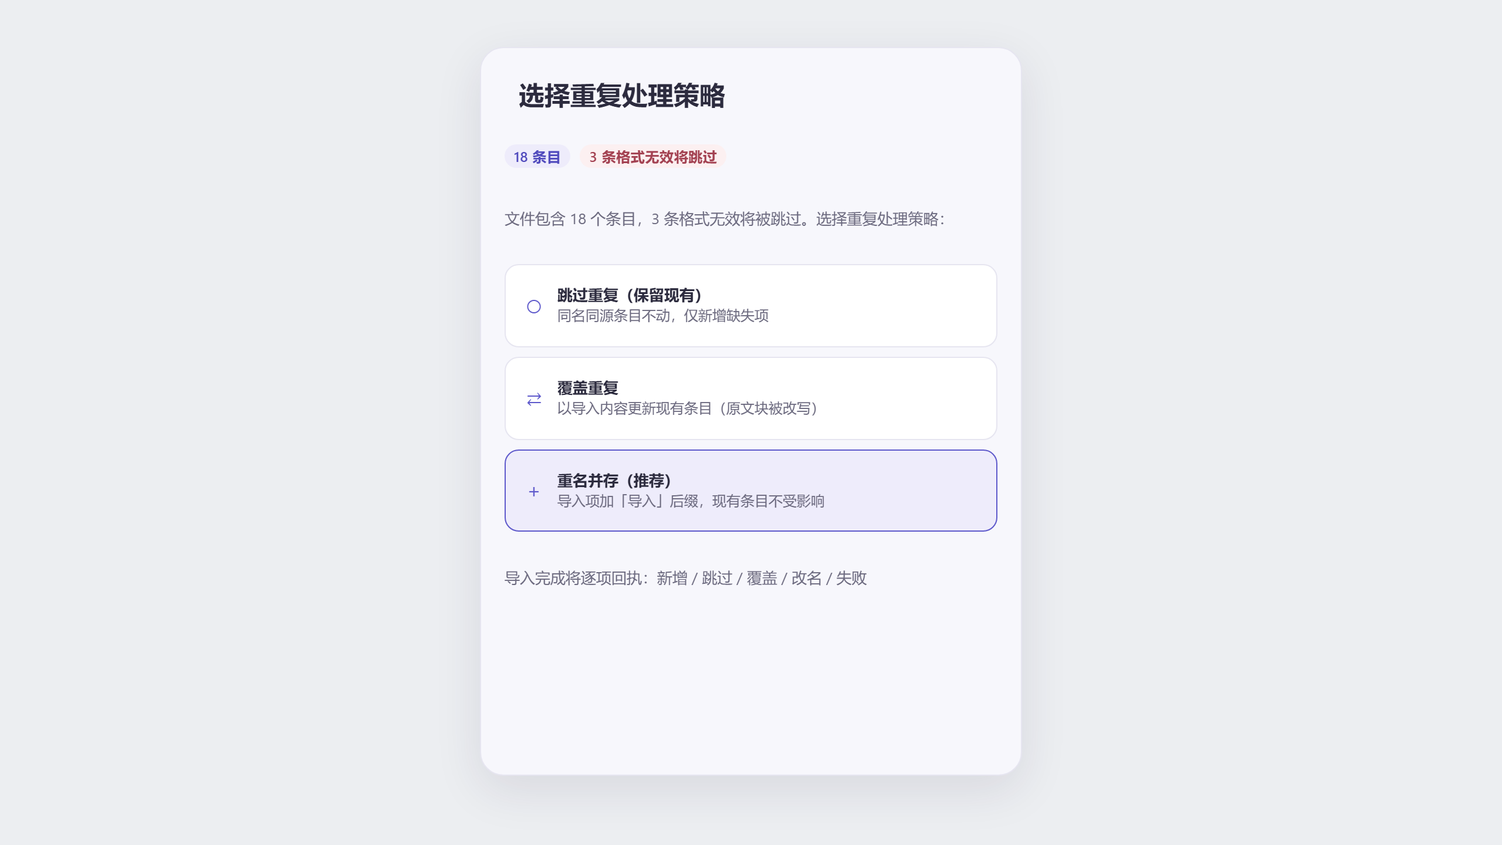
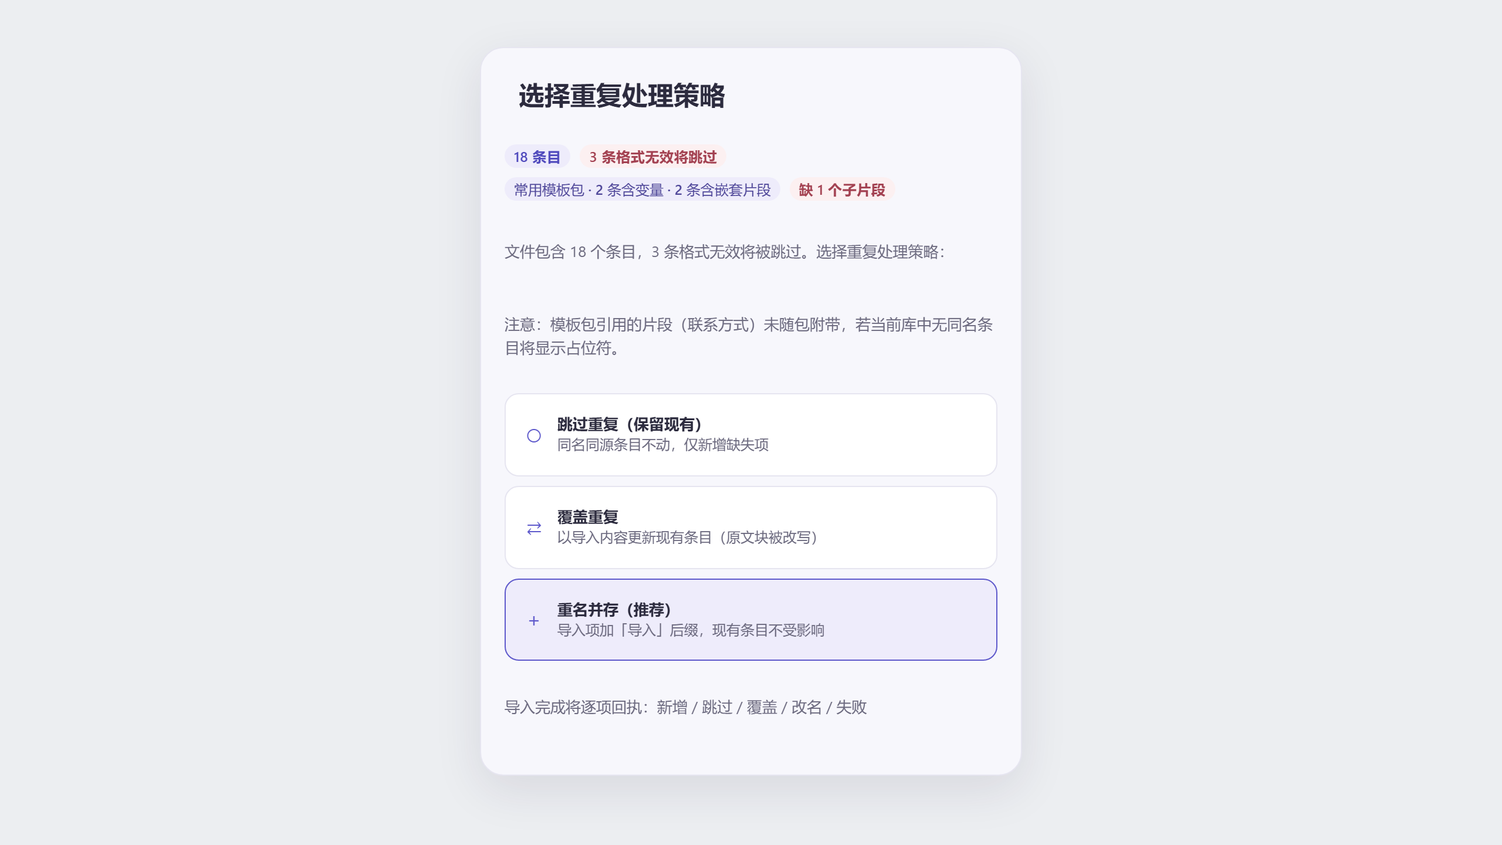
feat(import): preflight check missing snippet dependencies in template packs (T-0111)

Changed region(s): [[0.3438, 0.3438, 0.6562, 0.75], [0.3438, 0.2188, 0.625, 0.3125], [0.3438, 0.8125, 0.5938, 0.8438]]

diff --git a/docs/design/harness-bundle.js b/docs/design/harness-bundle.js
@@ -7064,7 +7064,23 @@ ${exception.mark.snippet}`;
       });
     });
     if (hasUnclosed) issues.push({ index: commentStarts.length, reason: "metadata-comment-unclosed" });
-    return { items, issues, pack };
+    const packTitles = new Set(items.map((it) => it.title).filter(Boolean));
+    const allReferencedSnippets = /* @__PURE__ */ new Set();
+    for (const it of items) {
+      if (it.itemType === "code") continue;
+      for (const ref of listSnippetRefs(it.kramdown)) {
+        allReferencedSnippets.add(ref);
+      }
+    }
+    if (pack == null ? void 0 : pack.snippets) {
+      for (const sn of pack.snippets) allReferencedSnippets.add(sn);
+    }
+    const missingSnippets = Array.from(allReferencedSnippets).filter((snTitle) => !packTitles.has(snTitle));
+    let finalPack = pack;
+    if (missingSnippets.length > 0) {
+      finalPack = finalPack ? { ...finalPack, missingSnippets } : { name: "", vars: [], missingSnippets };
+    }
+    return { items, issues, pack: finalPack };
   }
 
   // src/ui/settings-dialog.ts
@@ -9334,7 +9350,7 @@ ${exception.mark.snippet}`;
     return suggestions.length === 0 ? "empty" : "shown";
   }
   function openImportPolicyDialog(ctx, parsed, issues, source) {
-    var _a;
+    var _a, _b;
     const t = ctx.t;
     const dialog = new import_siyuan3.Dialog({
       title: t("importPolicyTitle"),
@@ -9370,12 +9386,26 @@ ${exception.mark.snippet}`;
       }
       metaPack.textContent = packText;
       meta.appendChild(metaPack);
+      if (parsed.pack.missingSnippets && parsed.pack.missingSnippets.length > 0) {
+        const metaMissing = document.createElement("span");
+        metaMissing.className = "xlc-badge xlc-badge--warn";
+        metaMissing.dataset.xlcControl = "import.pack.missing-snippets";
+        metaMissing.textContent = t("packMissingSnippetsBadge", String(parsed.pack.missingSnippets.length));
+        meta.appendChild(metaMissing);
+      }
     }
     wrap.appendChild(meta);
     const preview = document.createElement("p");
     preview.className = "xlc-form-hint";
     preview.textContent = t("importPreview", String(parsed.items.length), String(issues.length));
     wrap.appendChild(preview);
+    if (((_b = parsed.pack) == null ? void 0 : _b.missingSnippets) && parsed.pack.missingSnippets.length > 0) {
+      const missingHint = document.createElement("p");
+      missingHint.className = "xlc-form-hint xlc-form-error";
+      missingHint.dataset.xlcControl = "import.pack.missing-hint";
+      missingHint.textContent = t("packMissingSnippetsHint", parsed.pack.missingSnippets.join("\u3001"));
+      wrap.appendChild(missingHint);
+    }
     const receiptHint = document.createElement("p");
     receiptHint.className = "xlc-form-hint";
     receiptHint.setAttribute("role", "status");
@@ -14073,6 +14103,8 @@ ${details.join("\n")}` : ""}`;
     packExportBtn: "\u5BFC\u51FA .md \u5305",
     packVarsBadge: "%s \u6761\u542B\u53D8\u91CF",
     packSnippetsBadge: "%s \u6761\u542B\u5D4C\u5957\u7247\u6BB5",
+    packMissingSnippetsBadge: "\u7F3A %s \u4E2A\u5B50\u7247\u6BB5",
+    packMissingSnippetsHint: "\u6CE8\u610F\uFF1A\u6A21\u677F\u5305\u5F15\u7528\u7684\u7247\u6BB5\uFF08%s\uFF09\u672A\u968F\u5305\u9644\u5E26\uFF0C\u82E5\u5F53\u524D\u5E93\u4E2D\u65E0\u540C\u540D\u6761\u76EE\u5C06\u663E\u793A\u5360\u4F4D\u7B26\u3002",
     emptyFavorites: "\u8FD8\u6CA1\u6709\u6536\u85CF\u7684\u6761\u76EE",
     emptyFavoritesSub: "\u70B9\u51FB\u6761\u76EE\u53F3\u4FA7 \u2606 \u6536\u85CF\uFF0C\u53EF\u5728\u300C\u6536\u85CF\u300D\u4E2D\u5FEB\u901F\u627E\u5230",
     emptyRecent: "\u6682\u65E0\u6700\u8FD1\u4F7F\u7528\u7684\u6761\u76EE",
@@ -14666,6 +14698,8 @@ ${details.join("\n")}` : ""}`;
       packExportBtn: "\u5BFC\u51FA .md \u5305",
       packVarsBadge: "%s \u6761\u542B\u53D8\u91CF",
       packSnippetsBadge: "%s \u6761\u542B\u5D4C\u5957\u7247\u6BB5",
+      packMissingSnippetsBadge: "\u7F3A %s \u4E2A\u5B50\u7247\u6BB5",
+      packMissingSnippetsHint: "\u6CE8\u610F\uFF1A\u6A21\u677F\u5305\u5F15\u7528\u7684\u7247\u6BB5\uFF08%s\uFF09\u672A\u968F\u5305\u9644\u5E26\uFF0C\u82E5\u5F53\u524D\u5E93\u4E2D\u65E0\u540C\u540D\u6761\u76EE\u5C06\u663E\u793A\u5360\u4F4D\u7B26\u3002",
       packContentsHint: "\xB7 \u6761\u76EE Markdown + \u5143\u6570\u636E\uFF08\u6807\u9898/\u6807\u7B7E/\u5206\u7C7B\uFF09\n\xB7 \u53D8\u91CF\u6E05\u5355\uFF08{{xlc:ask:\u2026}} \u5B57\u6BB5\u4E0E\u9009\u9879\uFF09\n\xB7 \u8D44\u6E90\u5F15\u7528\uFF08assets \u539F\u6837\u6253\u5305\uFF09",
       packTrustHint: "\u4ED6\u4EBA\u5BFC\u5165\u540E\u5373\u4E3A\u771F\u5B9E\u601D\u6E90\u5757\uFF0C\u53EF\u7EE7\u7EED\u7F16\u8F91\u4E0E\u518D\u5206\u4EAB\u2014\u2014\u5206\u4EAB\u7684\u662F\u300C\u6D3B\u7684\u5757\u300D\uFF0C\u4E0D\u662F\u6587\u672C\u5FEB\u7167\u3002",
       emptyFavorites: "\u8FD8\u6CA1\u6709\u6536\u85CF\u7684\u6761\u76EE",
@@ -15302,7 +15336,15 @@ ${details.join("\n")}` : ""}`;
         importBundleText: async () => ({ total: 18, created: 12, skipped: 4, overwritten: 1, renamed: 1, failed: 0, lines: [] }),
         importMarkdownItems: async () => ({ total: 18, created: 12, skipped: 4, overwritten: 1, renamed: 1, failed: 0, lines: [] })
       };
-      const parsed = { items: Array.from({ length: 18 }, (_, i) => ({ id: `xlc-demo${i}`, title: `\u6761\u76EE ${i + 1}` })) };
+      const parsed = {
+        items: Array.from({ length: 18 }, (_, i) => ({ id: `xlc-demo${i}`, title: `\u6761\u76EE ${i + 1}` })),
+        pack: {
+          name: "\u5E38\u7528\u6A21\u677F\u5305",
+          vars: ["\u5BA2\u6237", "\u65E5\u671F"],
+          snippets: ["\u9875\u7709", "\u8054\u7CFB\u65B9\u5F0F"],
+          missingSnippets: ["\u8054\u7CFB\u65B9\u5F0F"]
+        }
+      };
       const issues = [{ line: 3, reason: "bad shape" }, { line: 7, reason: "bad shape" }, { line: 11, reason: "bad shape" }];
       openImportPolicyDialog(ctx, parsed, issues, { kind: "json", text: "{}" });
     },

diff --git a/scripts/harness/entry.ts b/scripts/harness/entry.ts
@@ -188,7 +188,7 @@ const T = (key: string, ...args: string[]): string => {
         create: "创建", retry: "重试",
         useCount: "%s 次", quickNew: "＋ 新建条目", quickInsertSelected: "插入选中",
         packBtn: "导出模板包", packExportTitle: "导出 · 模板包", packCategoryLabel: "分类", allCategories: "全部分类",
-        packNameLabel: "包名称", packNameDefault: "小驴常用（内测版）模板包", packExportBtn: "导出 .md 包", packVarsBadge: "%s 条含变量", packSnippetsBadge: "%s 条含嵌套片段",
+        packNameLabel: "包名称", packNameDefault: "小驴常用（内测版）模板包", packExportBtn: "导出 .md 包", packVarsBadge: "%s 条含变量", packSnippetsBadge: "%s 条含嵌套片段", packMissingSnippetsBadge: "缺 %s 个子片段", packMissingSnippetsHint: "注意：模板包引用的片段（%s）未随包附带，若当前库中无同名条目将显示占位符。",
         packContentsHint: "· 条目 Markdown + 元数据（标题/标签/分类）\n· 变量清单（{{xlc:ask:…}} 字段与选项）\n· 资源引用（assets 原样打包）",
         packTrustHint: "他人导入后即为真实思源块，可继续编辑与再分享——分享的是「活的块」，不是文本快照。",
         emptyFavorites: "还没有收藏的条目", emptyFavoritesSub: "点击条目右侧 ☆ 一键收藏，收藏会置顶显示", emptyRecent: "暂无最近使用的条目",
@@ -659,14 +659,22 @@ function makeDeps(overrides: {aiEnabled?: boolean; missing?: boolean; mobile?: b
         capture.newManual();
     },
     openImport(): void {
-        // 导入策略卡（原型屏 8）：18 条目 / 3 条无效 / 策略三选
+        // 导入策略卡（原型屏 8）：18 条目 / 3 条无效 / 策略三选 / 模板包依赖预检
         const ctx = {
             t: T,
             notify: () => {},
             importBundleText: async () => ({total: 18, created: 12, skipped: 4, overwritten: 1, renamed: 1, failed: 0, lines: []}),
             importMarkdownItems: async () => ({total: 18, created: 12, skipped: 4, overwritten: 1, renamed: 1, failed: 0, lines: []}),
         } as unknown as SettingsUiContext;
-        const parsed = {items: Array.from({length: 18}, (_, i) => ({id: `xlc-demo${i}`, title: `条目 ${i + 1}`}))};
+        const parsed = {
+            items: Array.from({length: 18}, (_, i) => ({id: `xlc-demo${i}`, title: `条目 ${i + 1}`})),
+            pack: {
+                name: "常用模板包",
+                vars: ["客户", "日期"],
+                snippets: ["页眉", "联系方式"],
+                missingSnippets: ["联系方式"],
+            },
+        };
         const issues = [{line: 3, reason: "bad shape"}, {line: 7, reason: "bad shape"}, {line: 11, reason: "bad shape"}];
         openImportPolicyDialog(ctx, parsed, issues, {kind: "json", text: "{}"});
     },

diff --git a/src/service/import-markdown.ts b/src/service/import-markdown.ts
@@ -6,6 +6,7 @@ import {LIMITS} from "../constants";
 import {LibraryService} from "./library";
 import {importBundle as importJsonBundleCore} from "./importer";
 import {isItemType, isSafeHttpUrl} from "../model/item";
+import {listSnippetRefs} from "../model/variables";
 const ITEM_COMMENT_START = "<!-- xlc-item";
 const ITEM_COMMENT_END = "-->";
 const PACK_COMMENT_START = "<!-- xlc-pack";
@@ -24,15 +25,22 @@ function parseMetadata(lines: string[]): {fields: Map<string, string>; titleHint
     return {fields, titleHint};
 }
 
+export interface MarkdownPackManifest {
+    name: string;
+    vars: string[];
+    snippets?: string[];
+    missingSnippets?: string[];
+}
+
 export interface MarkdownPackParseResult {
     items: ExportedItem[];
     issues: Array<{index: number; reason: string}>;
     /** 包清单（F6）：xlc-pack 注释中的包名与变量清单；旧包/外来 MD 无此信息 */
-    pack?: {name: string; vars: string[]; snippets?: string[]};
+    pack?: MarkdownPackManifest;
 }
 
 /** 解析首部 xlc-pack 清单（存在且位于首个条目之前才有效；字段缺失容忍）。 */
-function parsePackManifest(md: string, firstItemAt: number): {name: string; vars: string[]; snippets?: string[]} | undefined {
+function parsePackManifest(md: string, firstItemAt: number): MarkdownPackManifest | undefined {
     const start = md.indexOf(PACK_COMMENT_START);
     if (start === -1 || start > firstItemAt) return undefined;
     const end = md.indexOf(ITEM_COMMENT_END, start);
@@ -151,7 +159,28 @@ export function parseMarkdownPack(md: string): MarkdownPackParseResult {
         });
     });
     if (hasUnclosed) issues.push({index: commentStarts.length, reason: "metadata-comment-unclosed"});
-    return {items, issues, pack};
+
+    // 依赖完整性预检：收集包内条目引用到的所有子片段标题并对比包内标题
+    const packTitles = new Set(items.map((it) => it.title).filter(Boolean));
+    const allReferencedSnippets = new Set<string>();
+    for (const it of items) {
+        if (it.itemType === "code") continue;
+        for (const ref of listSnippetRefs(it.kramdown)) {
+            allReferencedSnippets.add(ref);
+        }
+    }
+    if (pack?.snippets) {
+        for (const sn of pack.snippets) allReferencedSnippets.add(sn);
+    }
+    const missingSnippets = Array.from(allReferencedSnippets).filter((snTitle) => !packTitles.has(snTitle));
+    let finalPack = pack;
+    if (missingSnippets.length > 0) {
+        finalPack = finalPack
+            ? {...finalPack, missingSnippets}
+            : {name: "", vars: [], missingSnippets};
+    }
+
+    return {items, issues, pack: finalPack};
 }
 
 /** Markdown 包逐条应用：复用 importer 的单一真源（含 R21 overwrite 更新语义与 conflict 防御），完成后重建索引。 */

diff --git a/src/ui/settings-dialog.ts b/src/ui/settings-dialog.ts
@@ -2026,7 +2026,7 @@ async function runTagAudit(ctx: SettingsUiContext): Promise<"empty" | "shown"> {
 /** 导入策略确认（导入前校验已过；策略三选 → importBundleText → 汇总回执）。导出供渲染 harness 取证。 */
 export function openImportPolicyDialog(
     ctx: SettingsUiContext,
-    parsed: {items: Array<{id: string; title: string}>; pack?: {name: string; vars: string[]; snippets?: string[]}},
+    parsed: {items: Array<{id: string; title: string}>; pack?: {name: string; vars: string[]; snippets?: string[]; missingSnippets?: string[]}},
     issues: ImportIssue[],
     source: {kind: "json"; text: string} | {kind: "markdown-pack"; items: ExportedItem[]} | {kind: "espanso"; items: ExportedItem[]},
 ): void {
@@ -2065,12 +2065,26 @@ export function openImportPolicyDialog(
         }
         metaPack.textContent = packText;
         meta.appendChild(metaPack);
+        if (parsed.pack.missingSnippets && parsed.pack.missingSnippets.length > 0) {
+            const metaMissing = document.createElement("span");
+            metaMissing.className = "xlc-badge xlc-badge--warn";
+            metaMissing.dataset.xlcControl = "import.pack.missing-snippets";
+            metaMissing.textContent = t("packMissingSnippetsBadge", String(parsed.pack.missingSnippets.length));
+            meta.appendChild(metaMissing);
+        }
     }
     wrap.appendChild(meta);
     const preview = document.createElement("p");
     preview.className = "xlc-form-hint";
     preview.textContent = t("importPreview", String(parsed.items.length), String(issues.length));
     wrap.appendChild(preview);
+    if (parsed.pack?.missingSnippets && parsed.pack.missingSnippets.length > 0) {
+        const missingHint = document.createElement("p");
+        missingHint.className = "xlc-form-hint xlc-form-error";
+        missingHint.dataset.xlcControl = "import.pack.missing-hint";
+        missingHint.textContent = t("packMissingSnippetsHint", parsed.pack.missingSnippets.join("、"));
+        wrap.appendChild(missingHint);
+    }
     const receiptHint = document.createElement("p");
     receiptHint.className = "xlc-form-hint";
     receiptHint.setAttribute("role", "status");

diff --git a/ROADMAP.md b/ROADMAP.md
@@ -4,7 +4,7 @@
 
 > 定位：**思源笔记的内容资产层**——高频内容是有元数据、有来源、可检索、可变通、可共享的真实块资产（v3，2026-10-07 调研后修订）。三大一级场景：客服/邮件模板、AI 提示词库、研发/写作常用件。
 > 精准定位与调研证据：[docs/positioning.md](docs/positioning.md)。UI 唯一视觉事实源：[docs/design/prototype.html](docs/design/prototype.html)（v4 实现镜像）+ [docs/design/design-spec.md](docs/design/design-spec.md)；组件清单：[docs/ui-component-catalog.md](docs/ui-component-catalog.md)。生产证据：docs/design/production-*.png。
-> 状态：**[v0.4.2 已在 GitHub 发布](https://github.com/ai68298100/xiaolv-common/releases/tag/v0.4.2)（2026-10-16）**。T-0059–T-0084 的搜索/快捷工作流、标签引用和保存视图、编辑器目标修复及验收工具加固均已包含；本地 T-0086–T-0110 追加了导出保护、示例调研、写前保守限制、捕获入口/恢复保护、常用内容示例包、独立笔记本设置接线、本机使用统计摘要、导入异常回执加固、共享异常文本转换重构、异常处理源码门禁、独立笔记本两步进度/补偿凭据、B-006 单行结构标记写前防御/围栏空白清洗、Espanso 导入类型推断/URL 对齐、G4 搜索时间范围筛选模型、捕获查重排除自身/全角空白归一化、F5 片段引用解析/语法诊断工具、S1 变量填充卡默认值与预填支持、拼音前缀多音节平滑高亮、预览窗格嵌套片段语法芯片可视化以及 F6 模板包嵌套片段清单声明与导入解析双向闭环，尚未发布；R237 的 parts 完整清单假设已撤回，现仅允许单行/完整代码围栏写入，多 parts 更新及自动删除暂停。当前本地门禁单元 537/537、Chrome UI smoke、交互 74/74、构建/密钥/包检查通过；真实宿主边界仍按 B-001–B-006 分层。**Electron 临时 renderer 已有局部功能观测，镜像整体隔离声明已撤回**；Android、真实 AI、连续嵌入后选区、B-004、B-005 和 B-006 真实多块验收继续开放，后续宿主实验停止。发布说明保留这些边界，集市未获推送授权。当前状态：[docs/status-audit-2026-10-18.md](docs/status-audit-2026-10-18.md)；当期账本：[docs/dev-plan-2026-10-06.md](docs/dev-plan-2026-10-06.md)。
+> 状态：**[v0.4.2 已在 GitHub 发布](https://github.com/ai68298100/xiaolv-common/releases/tag/v0.4.2)（2026-10-16）**。T-0059–T-0084 的搜索/快捷工作流、标签引用和保存视图、编辑器目标修复及验收工具加固均已包含；本地 T-0086–T-0111 追加了导出保护、示例调研、写前保守限制、捕获入口/恢复保护、常用内容示例包、独立笔记本设置接线、本机使用统计摘要、导入异常回执加固、共享异常文本转换重构、异常处理源码门禁、独立笔记本两步进度/补偿凭据、B-006 单行结构标记写前防御/围栏空白清洗、Espanso 导入类型推断/URL 对齐、G4 搜索时间范围筛选模型、捕获查重排除自身/全角空白归一化、F5 片段引用解析/语法诊断工具、S1 变量填充卡默认值与预填支持、拼音前缀多音节平滑高亮、预览窗格嵌套片段语法芯片可视化、F6 模板包嵌套片段清单声明与导入解析双向闭环以及模板包导入依赖预检/策略弹窗分级警示，尚未发布；R237 的 parts 完整清单假设已撤回，现仅允许单行/完整代码围栏写入，多 parts 更新及自动删除暂停。当前本地门禁单元 537/537、Chrome UI smoke、交互 74/74、构建/密钥/包检查通过；真实宿主边界仍按 B-001–B-006 分层。**Electron 临时 renderer 已有局部功能观测，镜像整体隔离声明已撤回**；Android、真实 AI、连续嵌入后选区、B-004、B-005 和 B-006 真实多块验收继续开放，后续宿主实验停止。发布说明保留这些边界，集市未获推送授权。当前状态：[docs/status-audit-2026-10-18.md](docs/status-audit-2026-10-18.md)；当期账本：[docs/dev-plan-2026-10-06.md](docs/dev-plan-2026-10-06.md)。
 
 ## R2：AI 融入与原型质感（2026-10-06，用户指令立项）
 
@@ -732,6 +732,12 @@
 - [x] `src/service/export-markdown.ts` 聚合非代码条目的片段引用（`snippetNames`，上限 16 条），并在 `<!-- xlc-pack` 首部清单中声明 `snippets:` 字段。
 - [x] `src/service/import-markdown.ts` 的 `parsePackManifest` 互逆解析 `snippets:` 声明，并在 `openImportPolicyDialog` 策略卡片中展示 `packSnippetsBadge` 徽标。
 - [x] 新增 `tests/r13-export-md.test.cjs` 专项断言（单元门禁 537/537 全部通过），并通过故意跳过 `snippets` 字段解析的严格负向验证。
+
+## T-0111 / R258（2026-10-19 模板包导入依赖预检与策略弹窗分级警示）
+
+- [x] `src/service/import-markdown.ts` 的 `parseMarkdownPack` 自动比对包内条目引用的片段集合与包内条目标题，计算出缺失的子片段依赖 `missingSnippets`。
+- [x] `openImportPolicyDialog` 策略确认弹窗展示 `packMissingSnippetsBadge` 黄色警告徽标与 `packMissingSnippetsHint` 行内警示文本，列出具体缺失片段。
+- [x] 扩展 `scripts/render-production.cjs` 冒烟断言（8/8），并通过故意跳过缺失徽标渲染的严格双向负向验证。
 
 ## T-0086–T-0092 / R233–R239（2026-10-18 审计、示例调研与多块保护）
 

diff --git a/docs/dev-plan-2026-10-18-r258.md b/docs/dev-plan-2026-10-18-r258.md
@@ -1,0 +1,45 @@
+# T-0111 / R258：模板包导入依赖预检与策略弹窗分级警示
+
+日期：2026-10-19
+
+## 目标
+
+为 F6 模板包导入增加依赖完整性预检机制，并在导入策略确认弹窗中提供分级警示：
+1. 当用户导入他人分享的模板包时，若模板中引用了子片段（`{{xlc:snippet:标题}}`）但该子片段并未随包一起附带（且当前包内无同名条目），在导入前提前告知用户该模板可能在展开时落入可见占位符；
+2. `parseMarkdownPack` 自动比对包内所有条目引用的片段集合与包内条目自身的标题集合，计算出未随包附带的 `missingSnippets`；
+3. `openImportPolicyDialog` 策略确认弹窗在存在缺失依赖时，展示 `packMissingSnippetsBadge`（`data-xlc-control="import.pack.missing-snippets"`）黄色警告徽标与 `packMissingSnippetsHint`（`data-xlc-control="import.pack.missing-hint"`）行内警示文本，列出具体缺失的片段标题；
+4. 保持自包含包（自闭环完整包）的清洁：当包内已包含所有被引用的子片段时，`missingSnippets` 为空/未定义，弹窗不展示多余警告。
+
+## 实现
+
+- `src/service/import-markdown.ts`：
+  - 导出 `MarkdownPackManifest` 接口（`name: string; vars: string[]; snippets?: string[]; missingSnippets?: string[]`）；
+  - `parseMarkdownPack`：收集条目引用的片段标题与 `pack.snippets`，与包内所有条目标题对比，输出 `missingSnippets`。
+- `src/i18n/zh-CN.json` & `src/i18n/en.json`：
+  - 增补对称中英文案：`packMissingSnippetsBadge`（`"缺 %s 个子片段"` / `"%s missing snippets"`）与 `packMissingSnippetsHint`（`"注意：模板包引用的片段（%s）未随包附带，若当前库中无同名条目将显示占位符。"` / `"Note: Referenced snippets (%s) are not included in this pack and will show placeholders if missing from your library."`）。
+- `src/ui/settings-dialog.ts`：
+  - `openImportPolicyDialog`：当 `parsed.pack?.missingSnippets` 存在且非空时，渲染警告徽标与警示段落。
+- `scripts/harness/entry.ts`：
+  - 更新 `openImport()` 桩数据，包含 `pack` 与 `missingSnippets: ["联系方式"]`。
+- `scripts/render-production.cjs`：
+  - 扩展 `import-policy` 冒烟断言至 8 项，验证缺失徽标与警示文本。
+- `tests/r13-export-md.test.cjs`：
+  - 新增 `missingSnippets` 依赖检测与自闭环自包含包的双向断言。
+
+## 验证
+
+- `node tests/run-tests.cjs`：
+  - 单元测试 537/537 全部通过。
+- `node scripts/render-production.cjs`：
+  - `import-policy: 8 assertions` 全部通过；
+  - **负向验证**：在 `openImportPolicyDialog` 中故意跳过 `missingSnippets` 徽标渲染分支，运行测试确认 `import-policy` 冒烟测试必定以非零退出并指出 `Error: import-policy smoke failed: packMissingBadge: false`，恢复源码后复验全绿。
+- 全门禁通过：
+  - `npm run check:errors`（零不安全 thrown value 读取）
+  - `npm run check`（tsc --noEmit 零类型错误）
+  - `npm test`（537/537 全部通过）
+  - `npm run scan`（零敏感字面量）
+  - `npm run check:package`（13 项必需资源完备、根相对结构合规）
+
+## 状态与边界
+
+导入预检属于静态分析与前端提示，不阻断用户继续按策略导入模板；若用户库中此前已存在同名片段，思源块解析依然能够正常命中展开。

diff --git a/docs/dev-plan-2026-10-06.md b/docs/dev-plan-2026-10-06.md
@@ -2578,3 +2578,11 @@ LEDGER_EOF
 - **验证**：新增 `tests/r13-export-md.test.cjs` 专项断言（单元门禁 `537/537` 全部通过）；负向注入故意跳过 `snippets` 字段解析，测试精准失败（`AssertionError: Expected undefined to loosely deep-equal ['公司抬头', '联系方式']`），恢复源码后复验全绿；生产 UI 冒烟测试全部通过。
 - **门禁**：`check:errors`、`check`、单元 `537/537`、`test:ui`、密钥扫描与包检查全部通过。
 - **状态**：模板包导出导入清单实现了变量与嵌套片段引用的完整声明，导入策略确认卡可全面感知包内依赖；旧版解析器保持透明兼容。
+
+## T-0111 / R258（2026-10-19 模板包导入依赖预检与策略弹窗分级警示）
+
+- **目标**：为 F6 模板包导入增加片段依赖预检，并在策略确认弹窗中对未随包附带的子片段进行分级警示。
+- **实现**：`src/service/import-markdown.ts` 导出 `MarkdownPackManifest` 接口，并在 `parseMarkdownPack` 中比对包内条目引用的片段集合与包内条目标题，计算出缺失的 `missingSnippets`；`openImportPolicyDialog` 策略确认弹窗展示 `packMissingSnippetsBadge` 黄色警告徽标与 `packMissingSnippetsHint` 行内警示文本，列出具体缺失片段。
+- **验证**：`tests/r13-export-md.test.cjs` 验证缺失片段检测与自闭环完整包断言（单元门禁 `537/537` 全部通过）；扩展 `scripts/render-production.cjs` 冒烟断言（8/8），负向注入故意跳过缺失徽标渲染，测试精准失败（`Error: import-policy smoke failed: packMissingBadge: false`），恢复源码后复验全绿；生产 UI 冒烟测试全部通过。
+- **门禁**：`check:errors`、`check`、单元 `537/537`、`test:ui`、密钥扫描与包检查全部通过。
+- **状态**：导入策略卡片已具备完整的子片段依赖缺失告警能力，不阻断正常导入。
